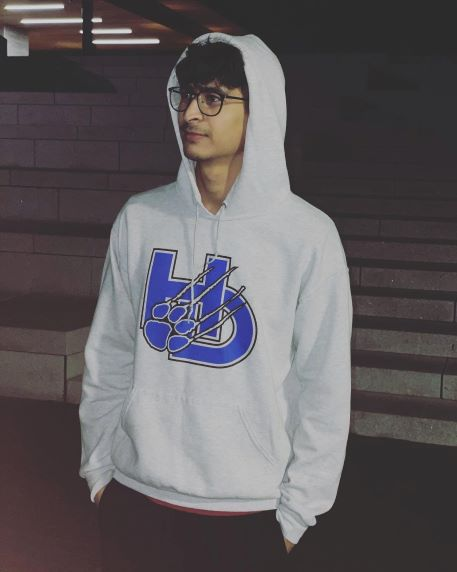
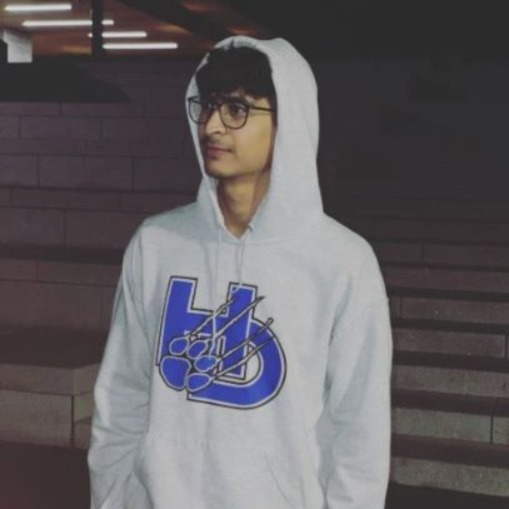
Made changes on my picture and the my bio.

diff --git a/styles.css b/styles.css
@@ -13,6 +13,10 @@ h1, h2, h3, h4, h5, h6, span {
     line-height: 1.25;
 }
 
+h1 {
+    font-size: 36px;
+}
+
 p {
     line-height: 1.5;
     font-size: 16px;
@@ -34,6 +38,10 @@ li {
     width: 100%;
     max-width: 800px;
     margin: 0 auto;
+}
+
+.text--purple {
+    color: #6030b1;
 }
 
 /*
@@ -94,15 +102,34 @@ nav {
 .about-me__info--container {
     display: flex;
     flex-direction: column;
-    justify-content: center;
     align-items: center;
+    max-width: 600px;
+    margin: 0 auto;
+    text-align: center;
 }
 
 .about-me__picture--mask {
     width: 100px;
     height: 100px;
+    border-radius: 50%;
+    overflow: hidden;
+    box-shadow: 0 8px 16px rgba(0, 0, 0, 0.16);
+    margin-bottom: 28px;
 }
 
 .about-me__picture {
     width: 100%;
+
+    /* Improving my picture */
+    transform: scale(1.5);
+    padding-top: 16px;
+}
+
+.about-me__info--title {
+    margin-bottom: 16px;
+}
+
+.about-me__info--para {
+    font-size: 20px;
+    margin-bottom: 28px;
 }
